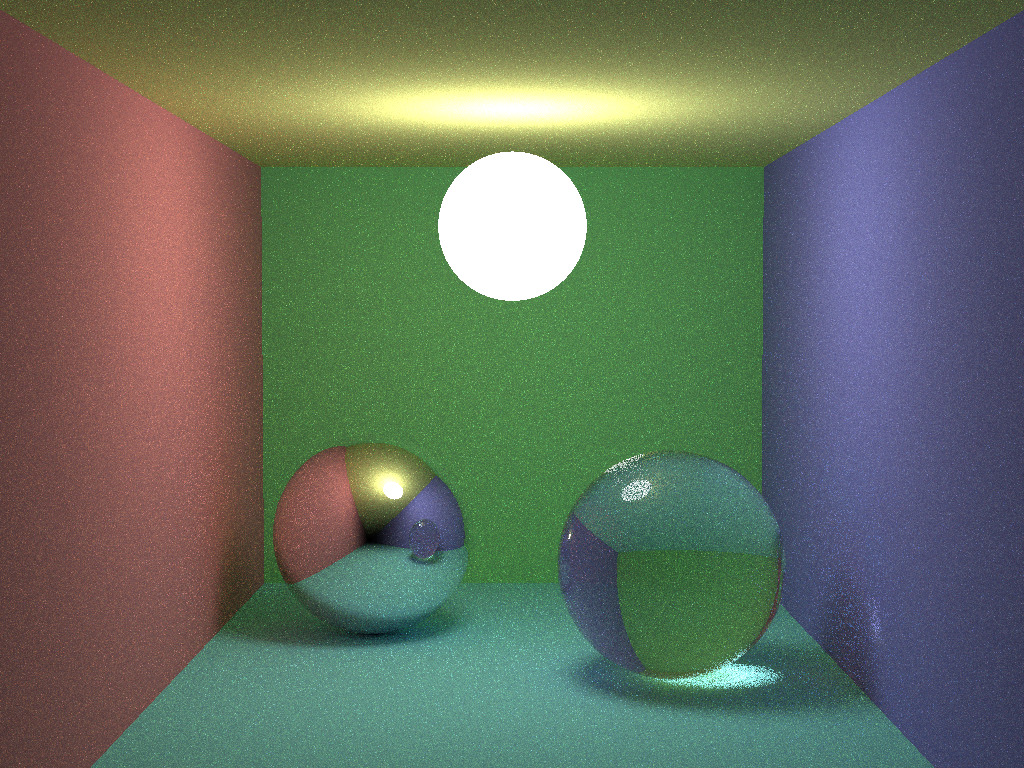
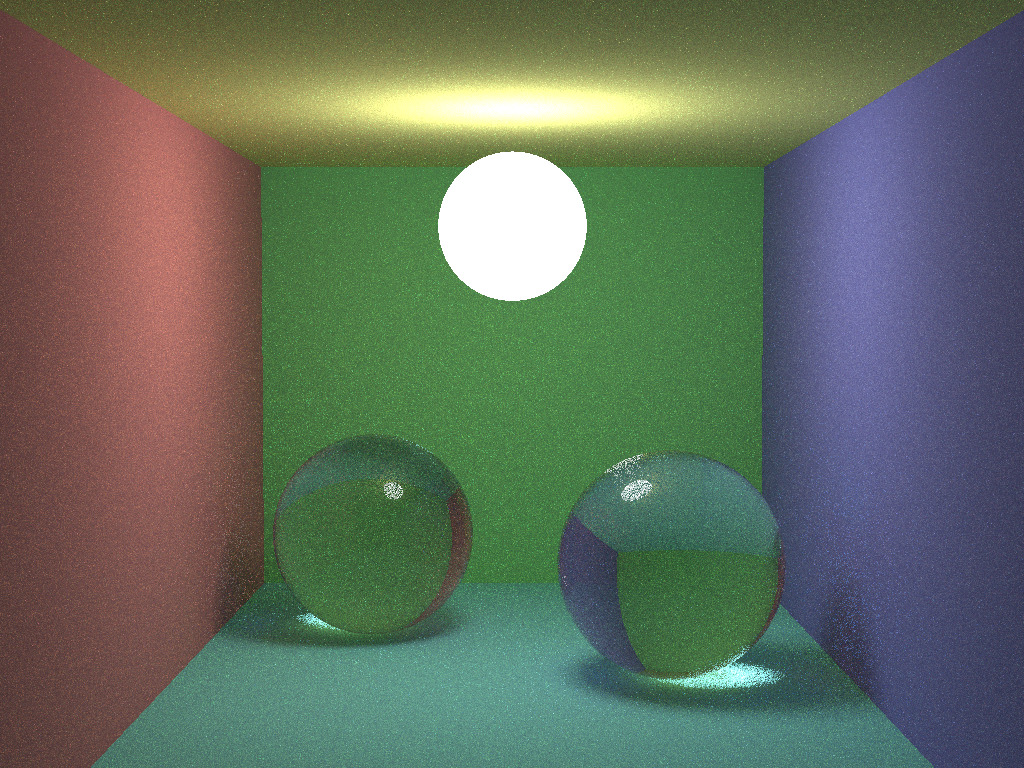
changed scene

diff --git a/Tarea18(nuevas)/rt.cpp b/Tarea18(nuevas)/rt.cpp
@@ -108,18 +108,6 @@ public:
 
 // Sphere spheres[] = {
 // 	//Escena: radio, posicion, color, emision, material
-// 	// Sphere(1e5,  Point(-1e5 - 49, 0, 0),   Color(.75, .25, .25), Color(),         diffuse), // pared izq
-// 	// Sphere(1e5,  Point(1e5 + 49, 0, 0),    Color(.25, .25, .75), Color(),	      diffuse), // pared der
-// 	// Sphere(1e5,  Point(0, 0, -1e5 - 81.6), Color(.25, .75, .25), Color(),	      diffuse), // pared detras
-// 	// Sphere(1e5,  Point(0, -1e5 - 40.8, 0), Color(.25, .75, .75), Color(),	      diffuse), // suelo
-// 	// Sphere(1e5,  Point(0, 1e5 + 40.8, 0),  Color(.75, .75, .25), Color(),	      diffuse), // techo
-// 	Sphere(16.5, Point(-23, -24.3, -34.6), Color(.75, .75, .25),	     Color(),	      0), // esfera espejo
-// 	// Sphere(16.5, Point(23, -24.3, -3.6),   Color(1, 1, 1),       Color(), 		  dielectric), // esfera dielectrica
-// 	Sphere(10.5, Point(0, 24.3, 0),        Color(0, 0, 0),       Color(10,10,10), 0)  // esfera de luz
-// };
-
-// Sphere spheres[] = {
-// 	//Escena: radio, posicion, color, emision, material
 // 	Sphere(1e5,  Point(-1e5 - 49, 0, 0),   Color(.75, .25, .25), Color(),         0), // pared izq
 // 	Sphere(1e5,  Point(1e5 + 49, 0, 0),    Color(.25, .25, .75), Color(),	      0), // pared der
 // 	Sphere(1e5,  Point(0, 0, -1e5 - 81.6), Color(.25, .75, .25), Color(),	      0), // pared detras
@@ -137,7 +125,7 @@ Sphere spheres[] = {
 	Sphere(1e5,  Point(0, 0, -1e5 - 81.6), Color(.25, .75, .25), Color(),	      0), // pared detras
 	Sphere(1e5,  Point(0, -1e5 - 40.8, 0), Color(.25, .75, .75), Color(),	      0), // suelo
 	Sphere(1e5,  Point(0, 1e5 + 40.8, 0),  Color(.75, .75, .25), Color(),	      0), // techo
-	Sphere(16.5, Point(-23, -24.3, -34.6), Color(1, 1, 1),	     Color(),	      1), // esfera espejo
+	Sphere(16.5, Point(-23, -24.3, -34.6), Color(1, 1, 1),	     Color(),	      2), // esfera espejo
 	Sphere(16.5, Point(23, -24.3, -3.6),   Color(1, 1, 1),       Color(), 		  2), // esfera dielectrica
 	Sphere(10.5, Point(0, 24.3, 0),        Color(0, 0, 0),       Color(10,10,10), 0)  // esfera de luz
 };
